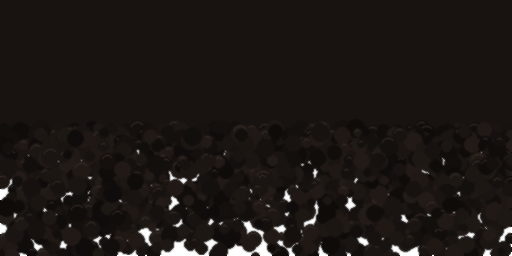
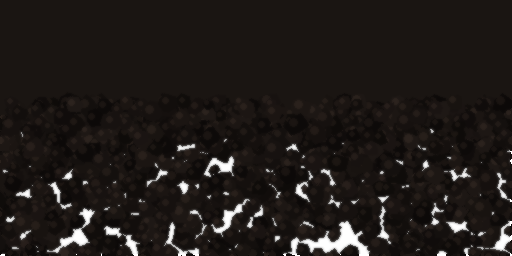
Refina textura de cachos com formas irregulares e paleta escura
Refaz hair_curls_albedo.png com cachos de contorno irregular e realce
leve, mais proximos do cabelo escuro da referencia. Atualiza renders e o
VALIDACAO_REFERENCIA.md. O GLB, os pesos e o rig nao foram alterados.

Claude-Session: https://claude.ai/code/session_01SbPjzQDrXqmreyexuEKpnZ

diff --git a/VALIDACAO_REFERENCIA.md b/VALIDACAO_REFERENCIA.md
@@ -76,3 +76,9 @@ Nenhuma alteração de malha, osso ou textura foi feita nesta etapa. Este commit
 - Renders: na nuca, o cabelo agora tem massa e textura cacheada. Na vista 3/4, os cachos aparecem nas laterais, sob a aba do chapéu.
 - Ainda diferente da referência: a textura usa círculos e não cachos reais, então o detalhe é mais uniforme que o da folha de referência. A cor também é um pouco mais escura.
 - Próximo passo: refinar a textura para cachos com formas irregulares, e revisar a cor do cabelo contra a amostra da referência.
+
+## Cabelo com cachos irregulares (etapa 4)
+
+- `hair_curls_albedo.png` refeita com cachos de contorno irregular (polígonos em estrela), realce pequeno em cada cacho e paleta mais escura, perto da cor do cabelo da referência.
+- Renders: a nuca mostra textura cacheada irregular, com aspecto de massa crespa. Nas laterais, os cachos aparecem acima da orelha, sob a aba do chapéu.
+- Ainda diferente da referência: a coroa fica mais uniforme que a folha de referência, e não há uma medição de cor contra a amostra. A comparação continua visual.
